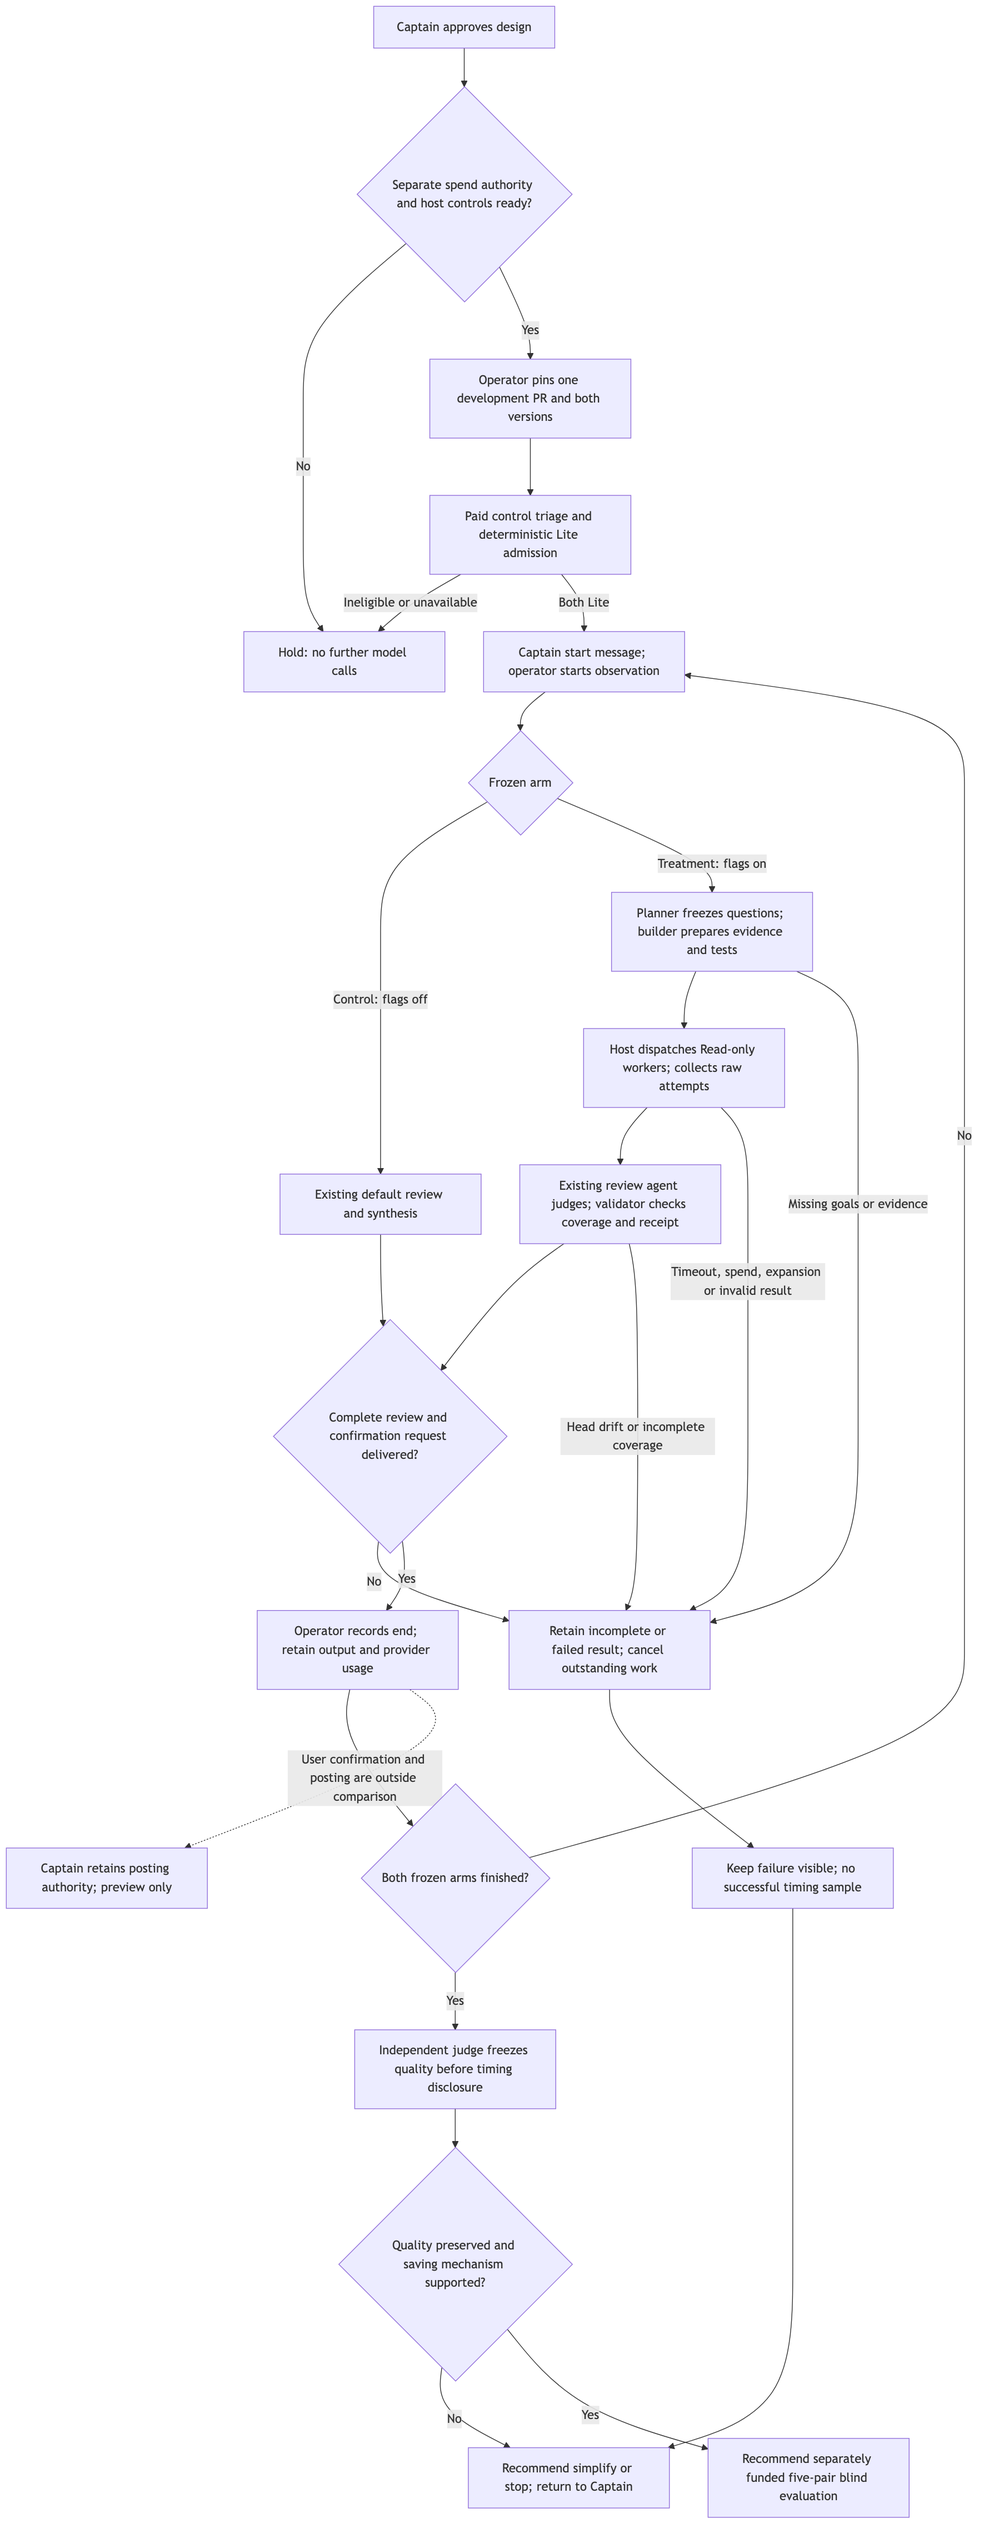
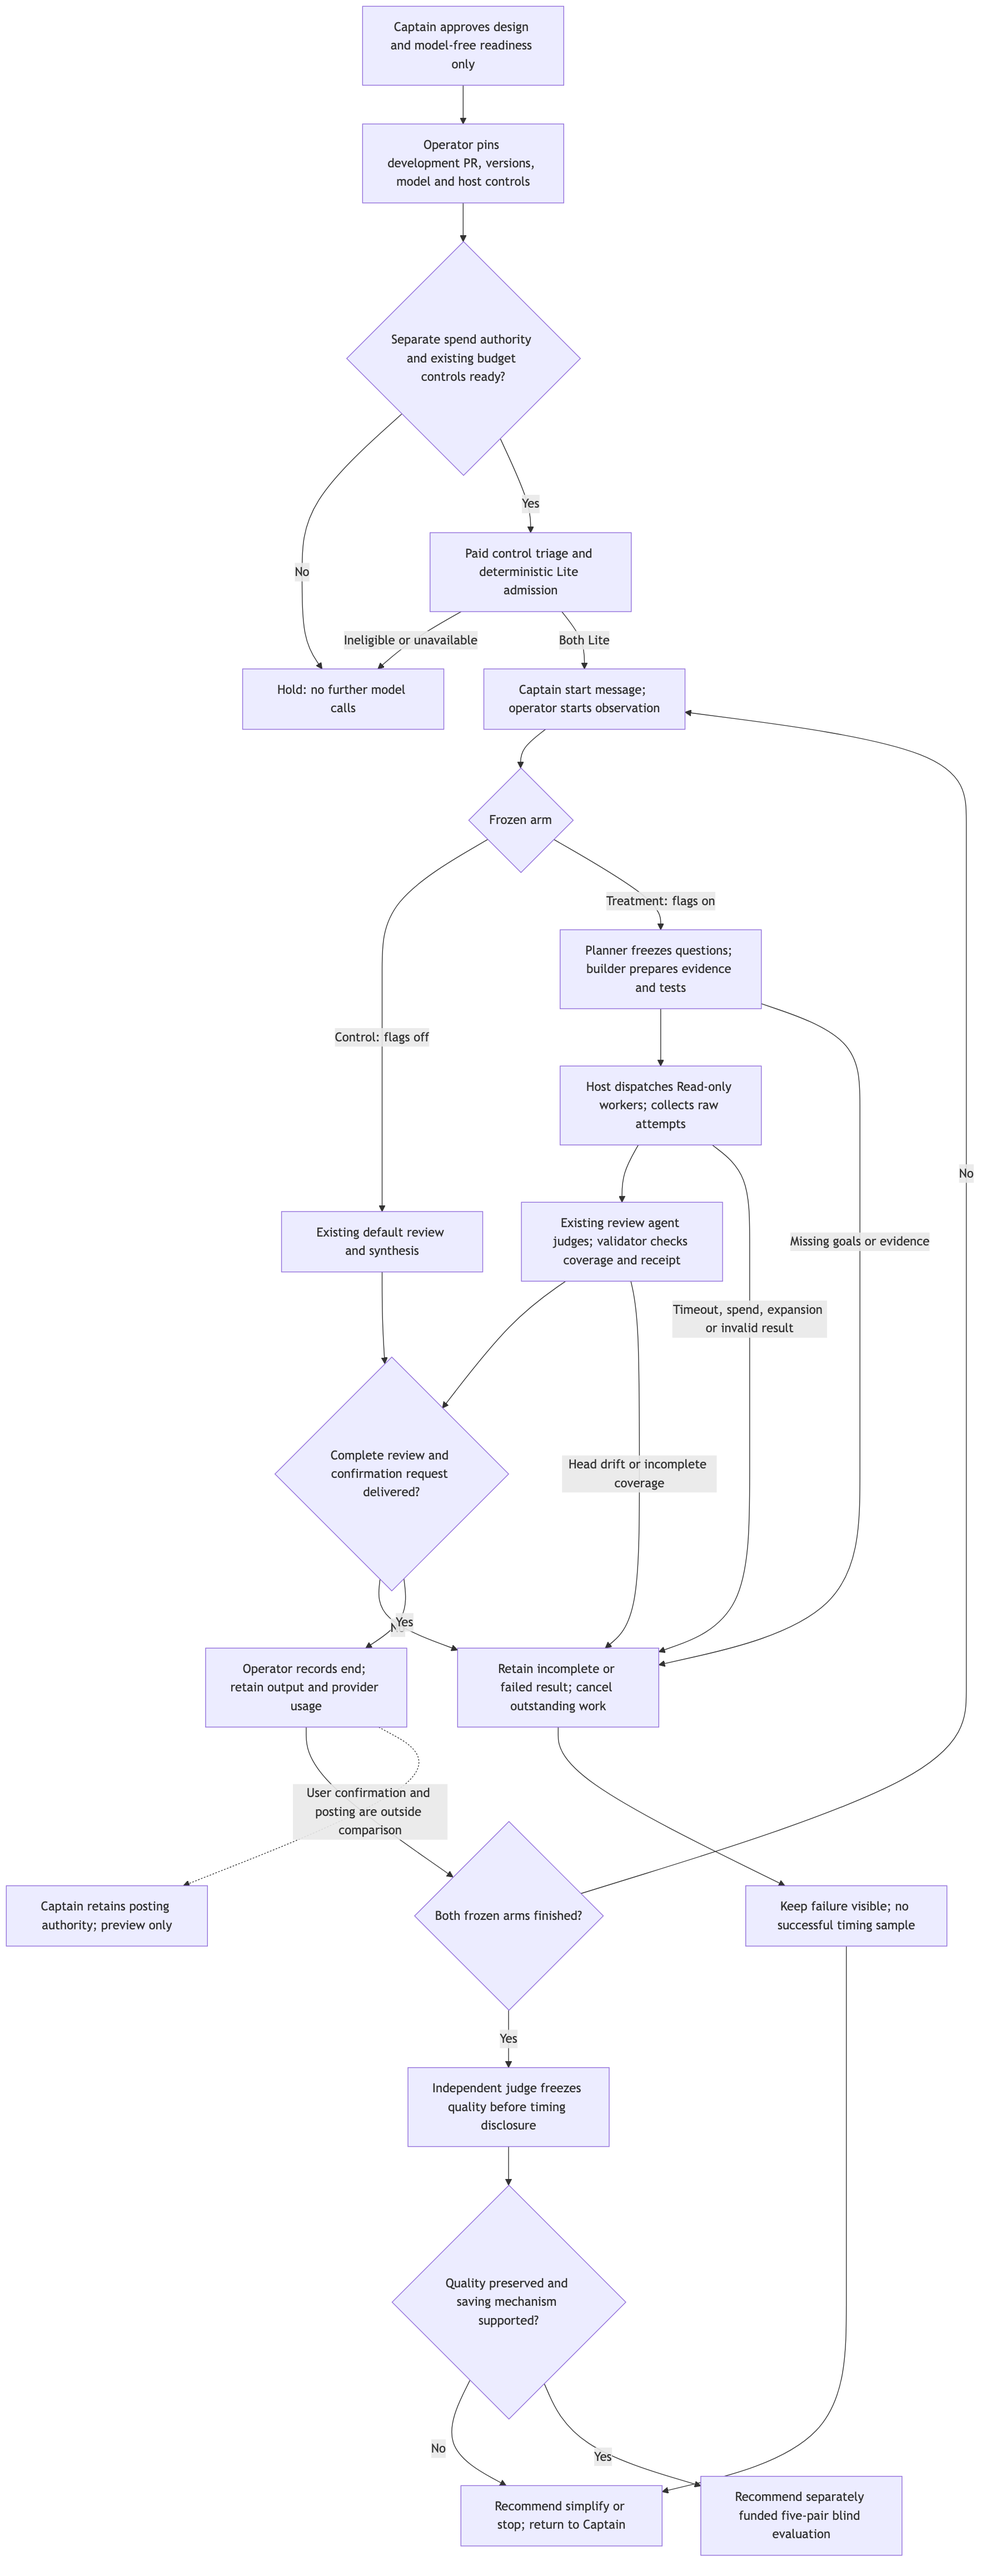
docs: bound next stage to model-free readiness

diff --git a/pr-review-lite-value-pilot/design.md b/pr-review-lite-value-pilot/design.md
@@ -26,10 +26,10 @@ The useful unit is one attended review, from Kent's start message to delivery of
 
 ```mermaid
 flowchart TD
-  A[Captain approves design] --> B{Separate spend authority and host controls ready?}
+  A[Captain approves design and model-free readiness only] --> C[Operator pins development PR, versions, model and host controls]
+  C --> B{Separate spend authority and existing budget controls ready?}
   B -->|No| Z[Hold: no further model calls]
-  B -->|Yes| C[Operator pins one development PR and both versions]
-  C --> D[Paid control triage and deterministic Lite admission]
+  B -->|Yes| D[Paid control triage and deterministic Lite admission]
   D -->|Ineligible or unavailable| Z
   D -->|Both Lite| E[Captain start message; operator starts observation]
   E --> F{Frozen arm}
@@ -55,7 +55,7 @@ flowchart TD
   M --> P
 ```
 
-Mermaid CLI 11.17.0 from the already-installed local cache rendered the image to `.context/pr-review-lite-value-pilot/journey.png`; the same image is retained here. The image was visually inspected after correcting the missing second-arm loop and the post-admission hold label. Actors, paid-admission boundary, separate starts for both arms, failure stop, quality-before-time order and excluded human posting wait match the prose. A complete output includes the confirmation request; confirmation itself is outside timing. The failure path intentionally stops this one development pair rather than purchasing a replacement. Rendering establishes diagram agreement, not runtime behavior. Reproduction needs Mermaid CLI and its browser; no product dependency was installed.
+Mermaid CLI 11.17.0 from the already-installed local cache rendered the image to `.context/pr-review-lite-value-pilot/journey.png`; the same image is retained here. The image was visually inspected after correcting the missing second-arm loop and the post-admission hold label. Actors, model-free readiness before separate spend approval, paid-admission boundary, separate starts for both arms, failure stop, quality-before-time order and excluded human posting wait match the prose. A complete output includes the confirmation request; confirmation itself is outside timing. The failure path intentionally stops this one development pair rather than purchasing a replacement. Rendering establishes diagram agreement, not runtime behavior. Reproduction needs Mermaid CLI and its browser; no product dependency was installed.
 
 ## Current evidence and scope accounting
 
@@ -146,6 +146,8 @@ Report costs separately with honest unknowns; these quality/time gates are uncha
 
 ## Recommended next decision
 
-Approve or revise this minimal development-first design at the design review. Recommend keeping the current candidate and original limits, with no preparatory product build. The unresolved material authority is whether to fund the bounded development comparison; the USD 19.8448 proposal becomes actionable only after the exact development PR, model/host, calibration material and enforceable aggregate spend mechanism are recorded. Those execution prerequisites are not silently approved by accepting the design. Wider evaluation, product changes and delivery stay outside this decision.
+Approve this design **with the next implementation stage limited to model-free readiness preparation**. That single decision would authorize the assigned worker to select and freeze one exact development PR from read-only metadata, name the installed host/model/tool policy, retain calibration examples, and document how the existing supervised operator and host controls bound and reconcile the proposed spend. It would authorize no product edit, corpus-admission call, model experiment, paid judge or new budget-enforcement system.
+
+The readiness output is a concrete launch package for a later explicit spend decision, including the proposed USD 19.8448 ceiling and any actual enforcement/attribution limitation. If existing controls cannot support that ceiling, report the limitation and stop; do not build a platform or silently redefine a hard cap as a timer. The Captain owns that later spend authority. The first officer must carry this narrow scope into the next dispatch if design approval advances the workflow to implementation; normal stage advancement alone cannot fund or execute the experiment. Wider evaluation, product repairs and delivery remain outside that scope.
 
 Profile reminder: Pilot, attended limited real use, one integrated journey; stage work ends here. No gate was prepared, recorded or consumed by this worker.

diff --git a/pr-review-lite-value-pilot.md b/pr-review-lite-value-pilot.md
@@ -110,4 +110,4 @@ Record the admitted seed, bind and record the Captain's already-given initial ap
 
 ### Summary
 
-The smallest recommendation is to accept or revise the development-first design, reuse the current default-off candidate and retain the original limits. Product value, live host reliability, enforceable aggregate spend, independent validation and delivery remain unproven; exact execution inputs and spend authority are required before a later development launch. This is completed ideation evidence only, with no model experiment, product edit, old-state change or gate advancement.
+The single recommendation is to approve this development-first design into an implementation stage restricted to model-free readiness preparation, reusing the current candidate and original limits. Product value, live host reliability, enforceable aggregate spend, independent validation and delivery remain unproven; the next dispatch may freeze execution inputs and document existing supervised budget controls, but separate explicit spend authority is required for a later development launch. This is completed ideation evidence only, with no model experiment, product edit, old-state change or gate advancement.
